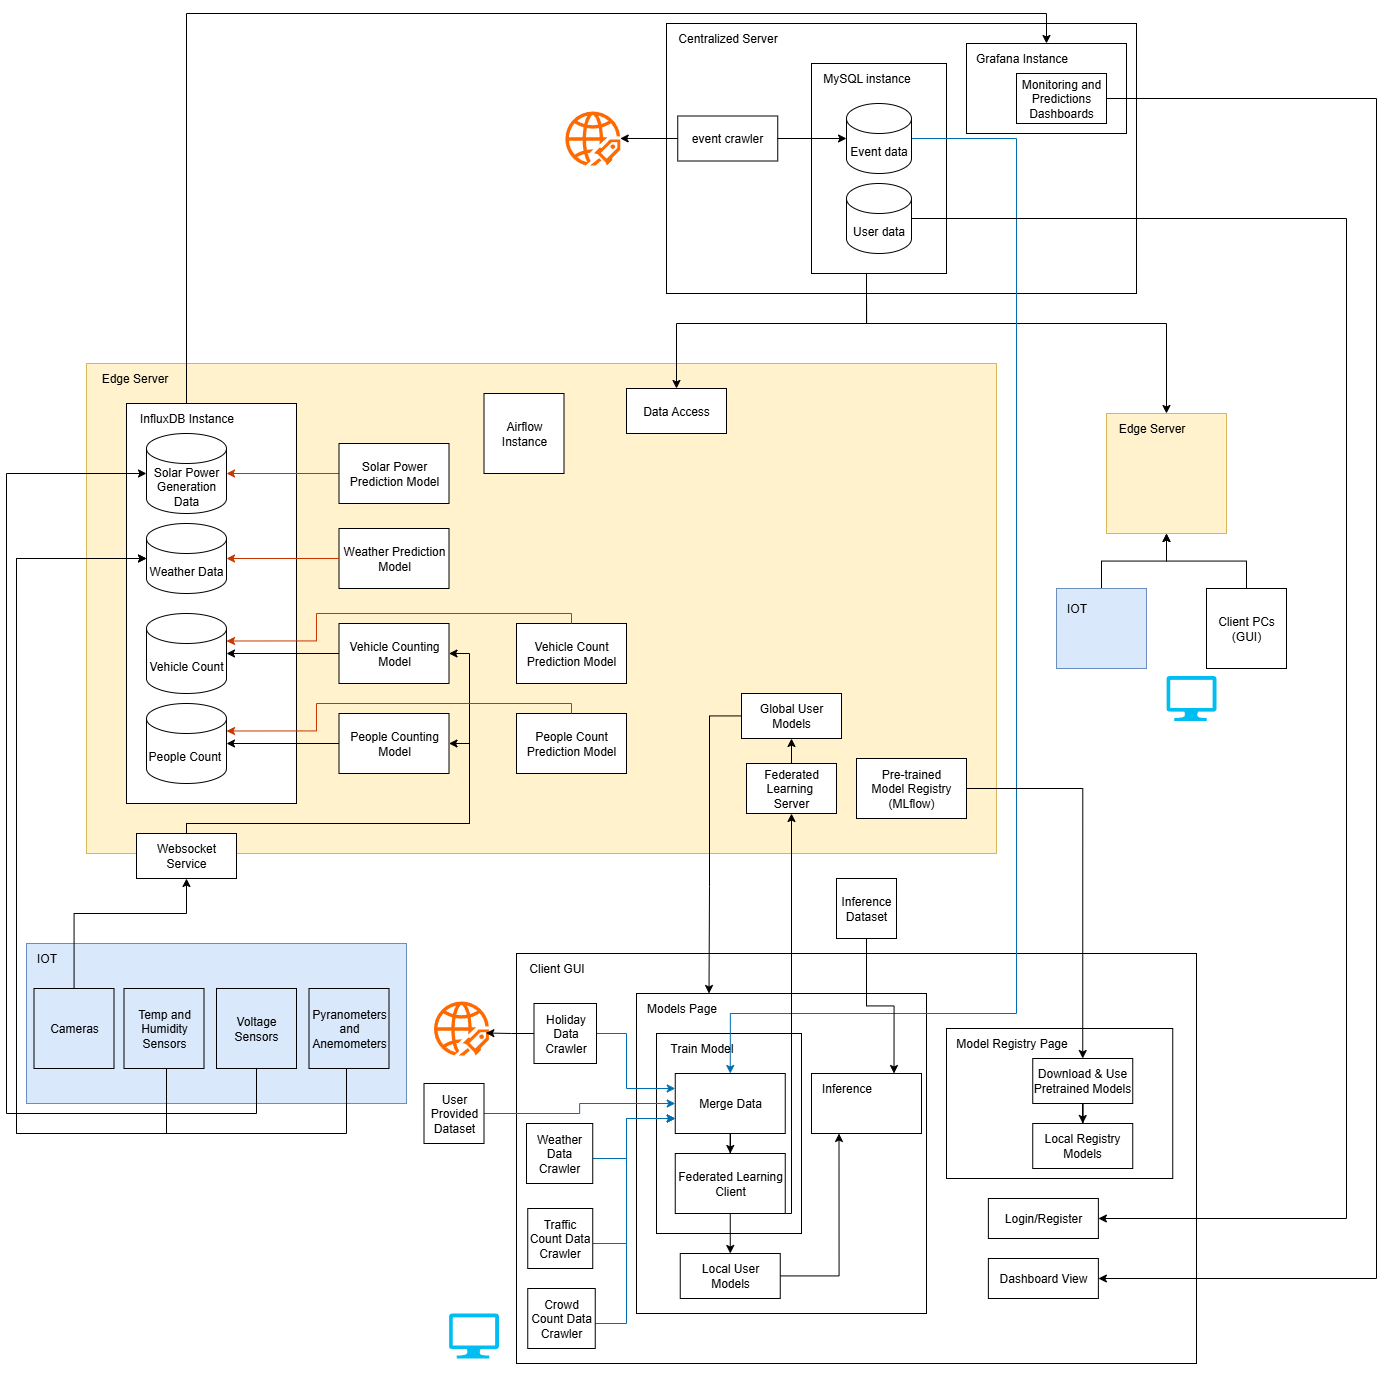
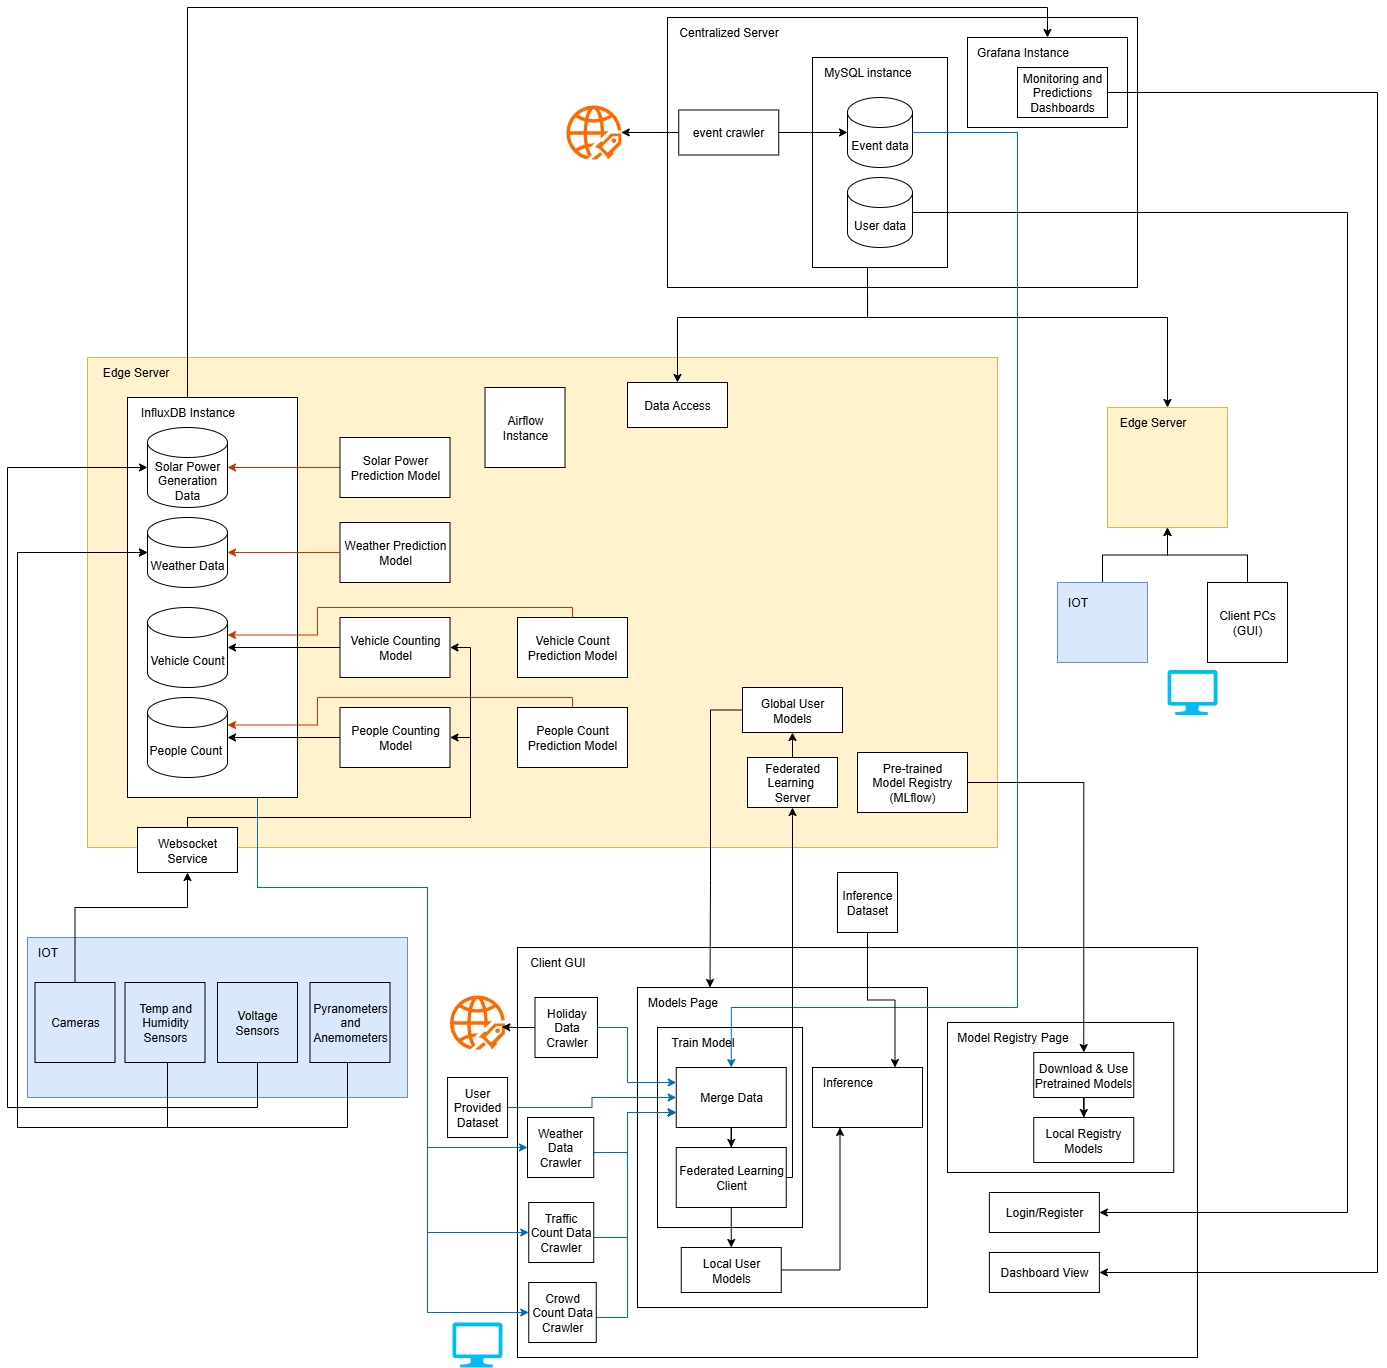
updated readme

diff --git a/README.md b/README.md
@@ -2,6 +2,27 @@
   <img src="architecture.png" />
 </p>
 
+## AI-Driven Edge Computing: An Approach to Architect Sustainable AI Training Platforms
+
+### Problem Statement
+
+With Increasing AI workloads and IOT data streams, current centralized AI training platforms face scalability and cost issues. Centralized AI and Data cause massive costs and less scalable. High load on central servers, network congestion are the main issues.
+
+### Our Solution
+
+We introduce an AI training and analytics platform which utilises edge resources for running AI and data workloads. Our platform provides a local Streamlit application for users to collaborate and train AI models locally with zero coding while utilising their resources. This does not involve moving the dataset through the network, which lowers the load on central servers and the network. The platform also provides storage for IOT data and IoT-related AI predictions on edge servers. Pre-trained Public Models are also moved from central servers to edge servers for faster delivery and lower network congestion.
+
+User Model Training is done as Federated Learning though Flower framework.  
+
+### Key Features:
+
+- Users can train and use AI models through a user-friendly UI without any programming knowledge.  
+- Multiple users can train models collaboratively while keeping sensitive data locally, which ensures data privacy and reduces network traffic.  
+- Users can train a variety of custom AI models related to classification, regression, forecasting, anomaly detection, etc.  
+- The system is capable of processing live sensor/IoT data at the edge servers to collect data for model training, inference, and providing live insights.  
+- Collection of pre-trained models is cached and delivered through edge servers to users with minimal latency.  
+- Users can view real-time analytics and predictions related to sensor/IoT data in a centralized dashboard.  
+
 ### Useful Info
 
 #### grafana
